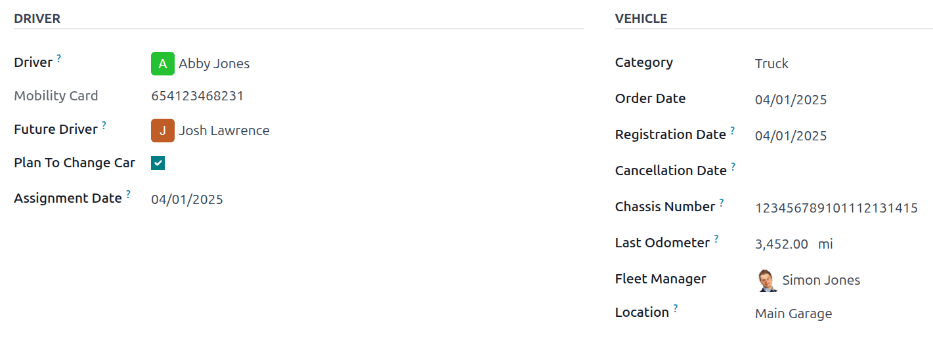
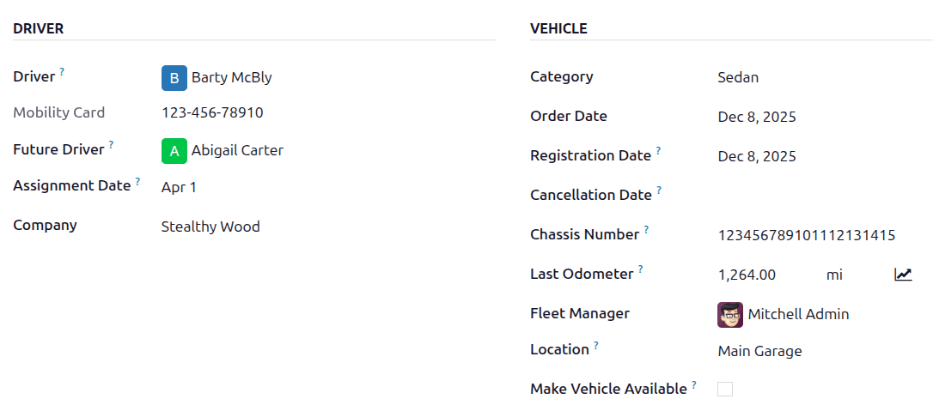
[IMP] Fleet - Add vehicles
closes odoo/documentation#16018

X-original-commit: 1616129c7cdd44b0a99d52a96e0f849d2dca4c21

diff --git a/content/applications/hr/fleet/new_vehicle.rst b/content/applications/hr/fleet/new_vehicle.rst
@@ -18,11 +18,12 @@ Settings
 Before registering any vehicles, review two **Fleet** settings that directly affect day-to-day
 operations and employee benefits:
 
-- :ref:`End Date Contract Alert <fleet/end-contract>` — emails the contract's *Responsible* person a
-  set number of days before the vehicle agreement expires, so renewals or returns aren't missed.
-- :ref:`New Vehicle Request <fleet/request>` — (Belgian Payroll localization only) blocks employees
-  from requesting a new company car through the salary configurator, once the available vehicles
-  already exceeds the defined limit, helping control benefits costs.
+- :ref:`End Date Contract Alert <fleet/end-contract>`: Emails the contract's *Responsible* person a
+  set number of days before the vehicle agreement expires, so renewals or returns are not missed.
+- :ref:`New Vehicle Request <fleet/request>`: (Only for the :doc:`Belgian payroll localization
+  <../payroll/payroll_localizations/belgium>`) Blocks employees from requesting a new company car
+  through the salary configurator, once the available vehicles already exceed the defined limit,
+  helping control benefits costs.
 
 To access the settings menu, go to :menuselection:`Fleet app --> Configuration --> Settings`.
 
@@ -44,8 +45,8 @@ this field.
 Responsible parties
 ~~~~~~~~~~~~~~~~~~~
 
-To determine the responsible person is for a contract, open an individual contract. The person
-listed as :guilabel:`Responsible` under the :guilabel:`Contract Information` section of the contract
+To determine the responsible person for a contract, open an individual contract. The person listed
+as :guilabel:`Responsible` under the :guilabel:`Contract Information` section of the contract
 receives the alert.
 
 To open a contract from a list of all contracts, navigate to :menuselection:`Fleet app --> Fleet -->
@@ -55,18 +56,18 @@ receives expiration alerts.
 
 An individual contract can also be opened from a specific vehicle by navigating to
 :menuselection:`Fleet app --> Fleet --> Fleet` and clicking on an individual vehicle. On the vehicle
-form, click the :guilabel:`Contracts` smart button at the top of the page. Only contracts associated
-with the vehicle appear in the list. Click on an individual contract to open it. The
-:guilabel:`Responsible` person is listed on the contract.
+form, click the :icon:`fa-book` :guilabel:`Contracts` smart button at the top of the page. Only
+contracts associated with the vehicle appear in the list. Click on an individual contract to open
+it. The :guilabel:`Responsible` person is listed on the contract.
 
 .. _fleet/request:
 
-New Vehicle Request (Belgian Payroll - Fleet)
----------------------------------------------
+New vehicle request
+-------------------
 
 Enter the maximum fleet size that may be reached through the salary-configurator flow. When the
 total number of available vehicles (vehicles without an assigned driver) is equal to or below this
-limit, employees can request a new company car. Once the available vehicles exceeds the limit, the
+limit, employees can request a new company car. Once the available vehicles exceed the limit, the
 request option is hidden.
 
 .. example::
@@ -116,14 +117,12 @@ This section of the vehicle form relates to the person who is currently driving 
 any plans for a change in the driver in the future, and when.
 
 - :guilabel:`Driver`: Using the drop-down menu, select the driver for the vehicle. If the driver is
-  not listed, :ref:`create the new driver, and edit the driver details
+  not listed, :ref:`create the new driver and edit the driver details
   <fleet/new_vehicle/add-driver>`.
 
   .. important::
      A driver does *not* have to be an employee. When creating a new driver, the driver is added to
-     the **Fleet** app, *not* the **Employees** app.
-
-     If the **Contacts** app is installed, the driver information is also stored there.
+     the **Fleet** app and the **Contacts** app (if installed), *not* in the **Employees** app.
 
 - :guilabel:`Mobility Card`: If the selected driver has a mobility card (such as a gas card) listed
   on their employee record in the **Employees** application, the mobility card number automatically
@@ -135,12 +134,9 @@ any plans for a change in the driver in the future, and when.
   driver details <fleet/new_vehicle/add-driver>`.
 
   .. note::
-     If this field is populated, a :guilabel:`Apply New Driver` button appears on the vehicle form.
+     If this field is populated, an :guilabel:`Apply New Driver` button appears on the vehicle form.
      Click the :guilabel:`Apply New Driver` button to change the driver information.
 
-- :guilabel:`Plan To Change Car`: Tick this box when the current driver already knows they'll switch
-  to another vehicle, whether they are awaiting an ordered car, using this one only temporarily, or
-  are leaving the company.
 - :guilabel:`Assignment Date`: Using the calendar selector, select when the vehicle is available for
   another driver. If this field is left blank, that indicates the vehicle is currently available,
   and can be assigned to another driver. If it is populated, the vehicle is not available for
@@ -163,7 +159,7 @@ Driver` field, then click :guilabel:`Create and edit...`. A :guilabel:`Create Dr
 
 Both the :guilabel:`Create Driver` and :guilabel:`Create Future Driver` forms are identical, and are
 stored in the **Contacts** app. :doc:`Configure the new contact <../../essentials/contacts>`, then
-click :guilabel:`Save & Close`.
+click :guilabel:`Save`.
 
 .. note::
    Depending on the installed applications, different tabs or fields may be visible on the
@@ -174,8 +170,8 @@ click :guilabel:`Save & Close`.
 Vehicle
 -------
 
-This section captures key physical details of a vehicle. Selecting an existing Model may auto-fill
-some fields.
+This section captures key physical details of a vehicle. Selecting an existing :guilabel:`Model` may
+auto-fill some fields.
 
 Fill in the following fields on the form:
 
@@ -204,6 +200,8 @@ Fill in the following fields on the form:
   field. The entry should clearly explain where the vehicle can be found, such as `Main Garage` or
   `Building 2 Parking Lot`. This is crucial information for companies with many locations where
   vehicles are stored.
+- :guilabel:`Make Vehicle Available`: Click the checkbox if the vehicle can be selected when an
+  employee fills out the :ref:`salary configurator <recruitment/configure-package>`.
 
 .. image:: new_vehicle/new-vehicle-type.png
    :alt: The new vehicle form, showing the vehicle tax section.
@@ -223,9 +221,10 @@ Fiscality
 - :guilabel:`Horsepower Taxation`: Enter the amount that is taxed based on the size of the vehicle's
   engine. This is determined by local taxes and regulations, and varies depending on the location.
   It is recommended to check with the accounting department to ensure this value is correct.
-- :guilabel:`Disallowed Expenses Rate`: Configure the dates and percentages of the vehicle-related
-  costs (fuel, maintenance, depreciation, etc.) that **cannot** be deducted from the company's
-  taxable income.
+- :guilabel:`Deductibility Rates`: Configure the dates and percentages of the vehicle-related costs
+  (fuel, maintenance, depreciation, etc.) that can be deducted from the company's taxable income.
+  The :guilabel:`Start Date` field indicates *when* the deduction begins, and the
+  :guilabel:`Deductibility (%)` field indicates the percentage to be deducted.
 
 Contract
 ~~~~~~~~
@@ -248,22 +247,22 @@ Contract
 Model tab
 ---------
 
-If the model for the new vehicle is already configured in the database, the :guilabel:`MODEL` and
-:guilabel:`ENGINE` sections are populated with the corresponding information. If the model is *not*
+If the model for the new vehicle is already configured in the database, the :guilabel:`Model` and
+:guilabel:`Engine` sections are populated with the corresponding information. If the model is *not*
 already in the database and the :guilabel:`Model` tab needs to be configured, :ref:`configure the
 new vehicle model <fleet/add-model>`.
 
 Check the information in the :guilabel:`Model` tab to ensure it is accurate. For example, the color
-of the vehicle, or if a trailer hitch is installed, are examples of common information that may need
-updating.
+of the vehicle or whether a trailer hitch is installed are examples of common information that may
+need updating.
+
+.. image:: new_vehicle/model-tab.png
+   :alt: The new vehicle form, showing the vehicle tax section.
 
 Note tab
 --------
 
 Enter any notes for the vehicle in this section.
-
-.. image:: new_vehicle/model-tab.png
-   :alt: The new vehicle form, showing the vehicle tax section.
 
 .. seealso::
    - :doc:`../fleet/models`

diff --git a/content/applications/hr/recruitment/offer_job_positions.rst b/content/applications/hr/recruitment/offer_job_positions.rst
@@ -117,6 +117,8 @@ Once the email is ready to send, click :guilabel:`Send`. The email pop-up window
 .. image:: offer_job_positions/send-offer.png
    :alt: Send an email to the applicant with a link to the offered salary.
 
+.. _recruitment/configure-package:
+
 Configure your package
 ----------------------
 
